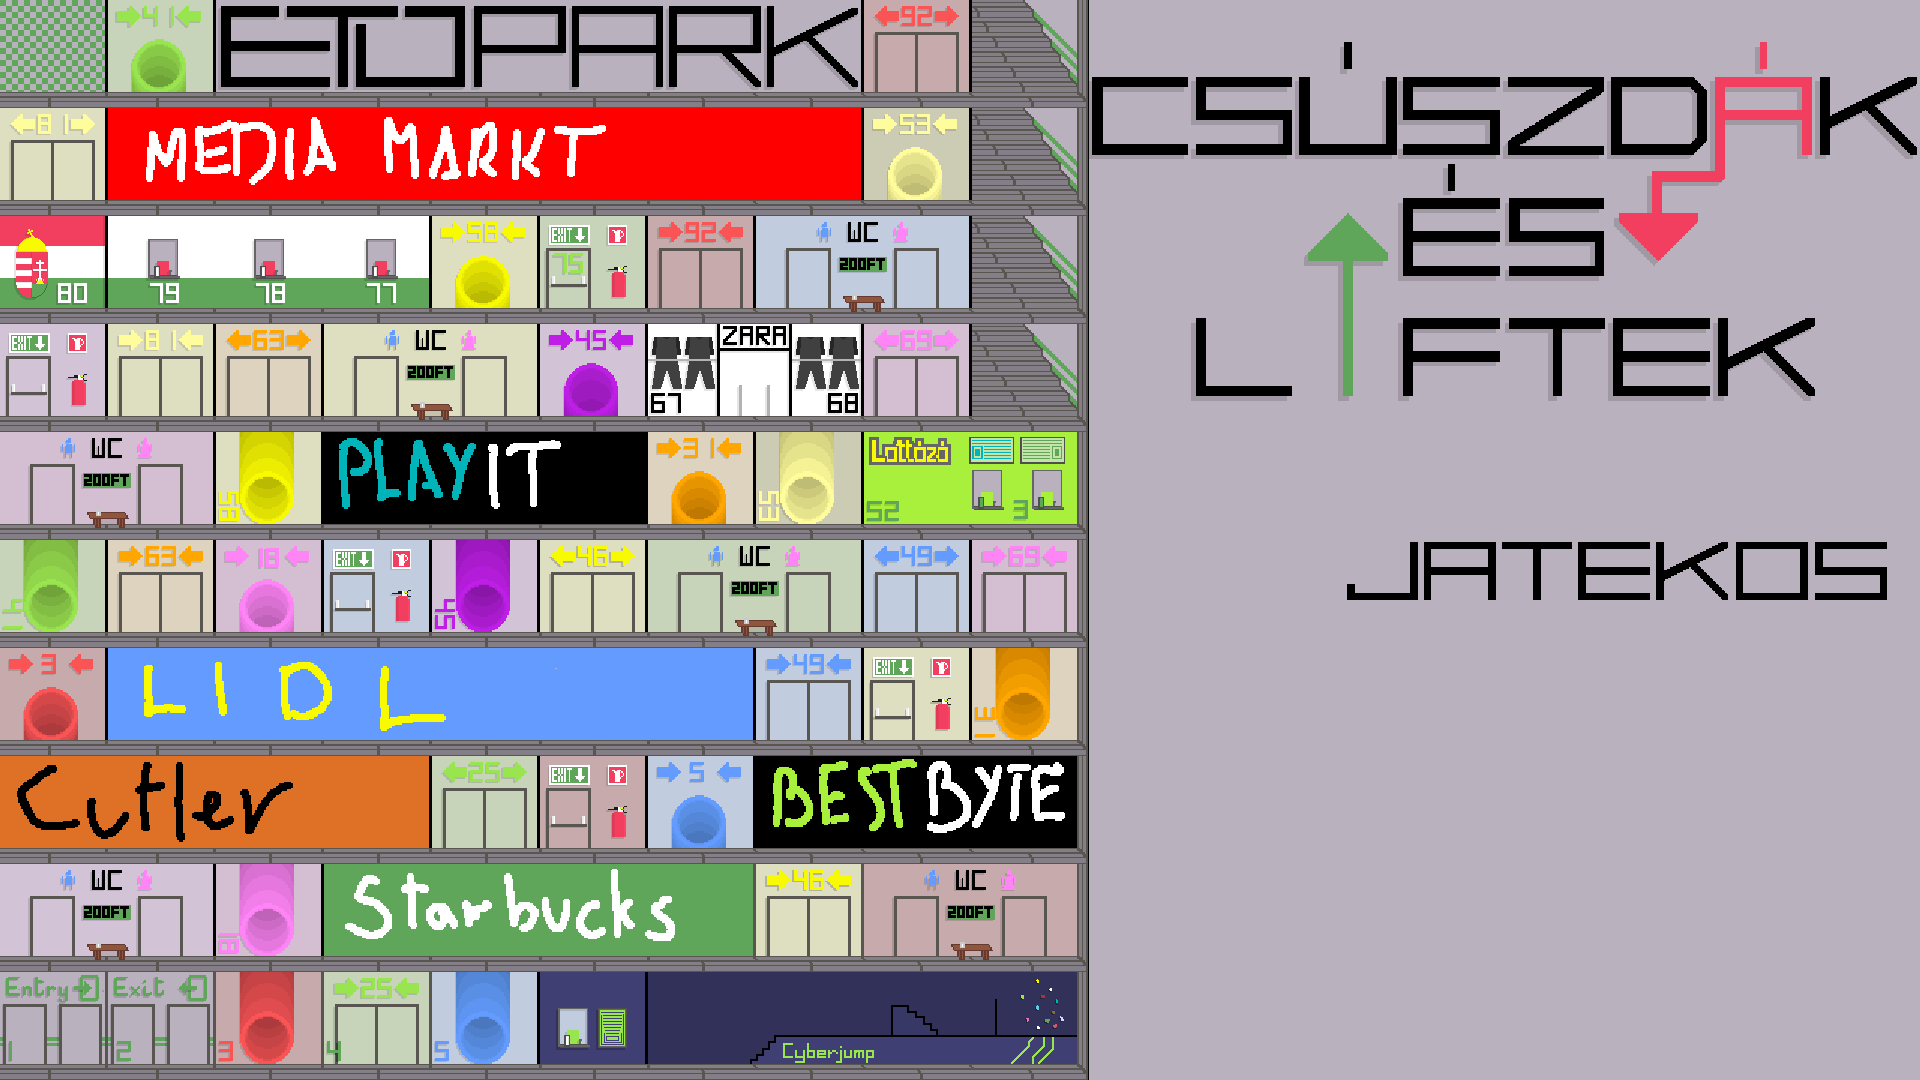
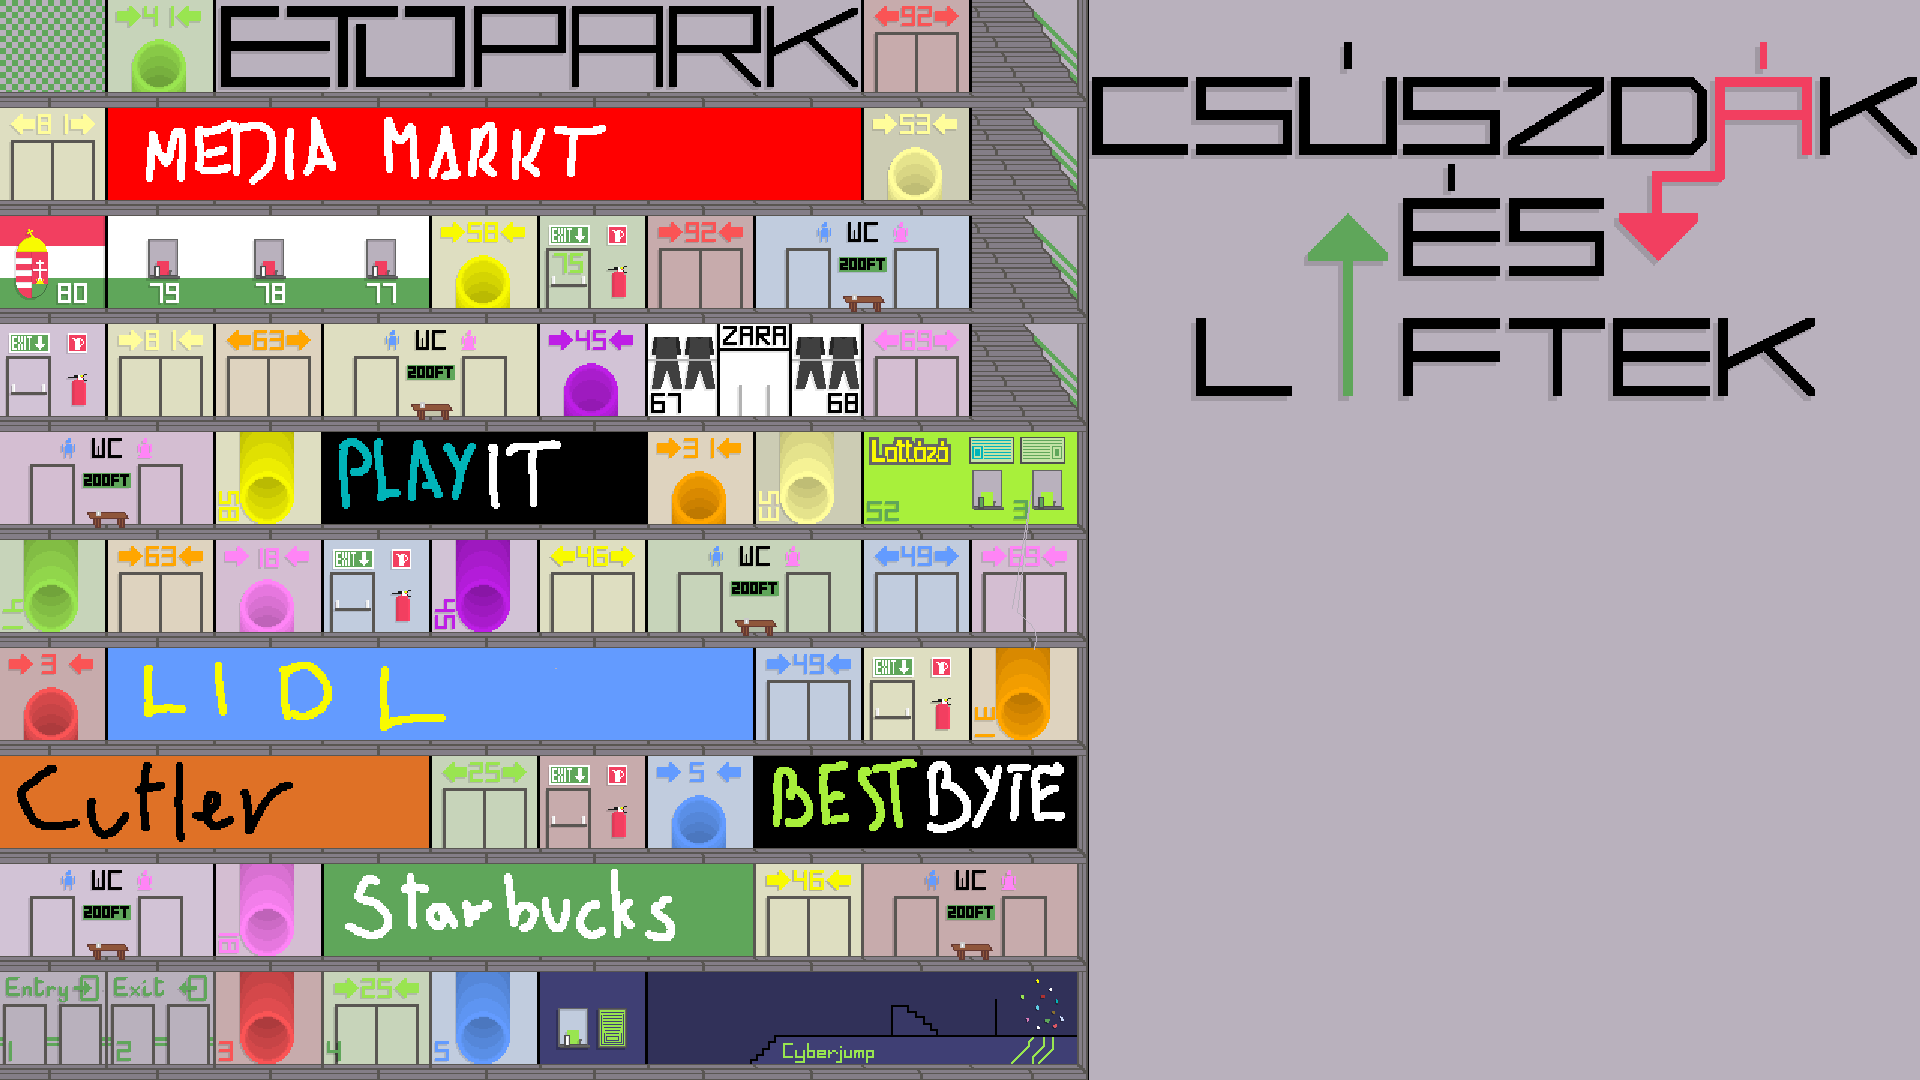
Basic animations working

Changed region(s): [[0.7188, 0.4889, 1.0, 0.5806]]

diff --git a/script.js b/script.js
@@ -1,5 +1,5 @@
 var background;
-var playerCountDisplay;
+var gameStarted = false;
 var connections = [
   new Connection(4, 25),
   new Connection(13, 46),
@@ -21,23 +21,25 @@ var currentPlayerIndex = 0;
 var players = [];
 var mouse_position = [0, 0];
 var buttons = [
-  new Button(59, 59, 1122, 541, "Assets/Red_Left_Arrow.png", DecreasePlayer),
-  new Button(59, 59, 1276, 541, "Assets/Green_Right_Arrow.png", IncreasePlayer ),
-  new Button(765, 174, 1122, 606, "Assets/Start.png", PlayerGenerate  ) //Norbi feladata a gomb működése
+  new Button(59, 59, 1119, 541, "Assets/Red_Left_Arrow.png", DecreasePlayer),
+  new Button(59, 59, 1273, 541, "Assets/Green_Right_Arrow.png", IncreasePlayer),
+  new Button(765, 174, 1119, 606, "Assets/Start.png", PlayerGenerate) //Norbi feladata a gomb működése
 ];
+var gameObjects = [new GameObject(62, 62, "Assets/1.png", 1194, 541, "image"), new GameObject(540, 58, "Assets/Jatekos.png", 1344, 542, "image")];
 
-function startGame() {
+function initialize() {
   background = new GameObject(1920, 1080, "Assets/Background.png", 0, 0, "image");
-  playerCountDisplay = new GameObject(62, 62, "Assets/1.png", 1196, 541, "image");
   myGameArea.start();
 
 }
 
-function PlayerGenerate(){
+function PlayerGenerate() {
   for (let i = 0; i < playerCount; i++) {
     playerCount * players.push(new Player("green"));
-    
   }
+  buttons = [new Button(765, 174, 1119, 876, "Assets/Roll.png", rollAndMove)];
+  gameObjects = [];
+  gameStarted = true;
 }
 
 var myGameArea = {
@@ -121,18 +123,25 @@ function Player(color) {
   [this.x, this.y] = tileNumberToScreenPosition(1);
   this.tileNumber = 1;
   this.targetTileNumber = 1;
+  this.opacity = 1;
 
   this.update = function () {
     ctx = myGameArea.context;
     ctx.fillStyle = color;
+    console.log(this.opacity);
     connections.forEach(connection => {
-      if (connection.start == this.faszHossz && connection.start == this.targetTileNumber) {
-
-        players[currentPlayerIndex].tileNumber = connection.end;
-        players[currentPlayerIndex].targetTileNumber = connection.end;
+      if (connection.start == this.tileNumber && connection.start == this.targetTileNumber) {
+        this.opacity = moveTovards(this.opacity, 0, 0.11);
+        if (this.opacity == 0) {
+          this.tileNumber = connection.end;
+          this.targetTileNumber = connection.end;
+        }
+      }
+      else if (connection.end == this.targetTileNumber) {
+        this.opacity = moveTovards(this.opacity, 1, 0.11);
       }
     });
-    this.tileNumber = moveTovards(this.tileNumber, this.targetTileNumber, 0.1);
+    this.tileNumber = moveTovards(this.tileNumber, this.targetTileNumber, 0.15);
     if (this.tileNumber % 1 != 0) {
       let prevTile = tileNumberToScreenPosition(Math.floor(this.tileNumber));
       let nextTile = tileNumberToScreenPosition(Math.ceil(this.tileNumber));
@@ -141,7 +150,9 @@ function Player(color) {
     else {
       [this.x, this.y] = tileNumberToScreenPosition(this.tileNumber);
     }
-    ctx.fillRect(this.x, this.y, this.width, this.height);
+    ctx.globalAlpha = this.opacity;
+    ctx.fillRect(this.x, this.y + (Math.abs((this.tileNumber % 1) - 0.5) - 0.5) * 20, this.width, this.height);
+    ctx.globalAlpha = 1;
   };
 }
 
@@ -154,8 +165,12 @@ function Connection(start, end) {
 function updateGameArea() {
   myGameArea.clear();
   background.update();
-  playerCountDisplay.img.src = `Assets/${playerCount}.png`;
-  playerCountDisplay.update();
+  if (!gameStarted) {
+    gameObjects[0].img.src = `Assets/${playerCount}.png`;
+  }
+  gameObjects.forEach(gameObject => {
+    gameObject.update();
+  });
   players.forEach(player => {
     player.update();
   });
@@ -219,8 +234,20 @@ function lerp(a, b, t) {
 }
 
 function moveTovards(a, b, v) {
-  if (a + v > b) {
-    return b;
+  let difference = Math.abs(a - b);
+  if (difference < 1) {
+    v = v / 2
   }
-  return a + v;
+  if (b > a) {
+    if (a + v > b) {
+      return b;
+    }
+    return a + v;
+  }
+  else {
+    if (a - v < b) {
+      return b;
+    }
+    return a - v;
+  }
 }

diff --git a/index.html b/index.html
@@ -8,7 +8,7 @@
     <link rel="stylesheet" href="style.css">
     <title>Csuszdák és Liftek</title>
 </head>
-<body onload="startGame()">
+<body onload="initialize()">
     <script src="script.js"></script>
 </body>
 
